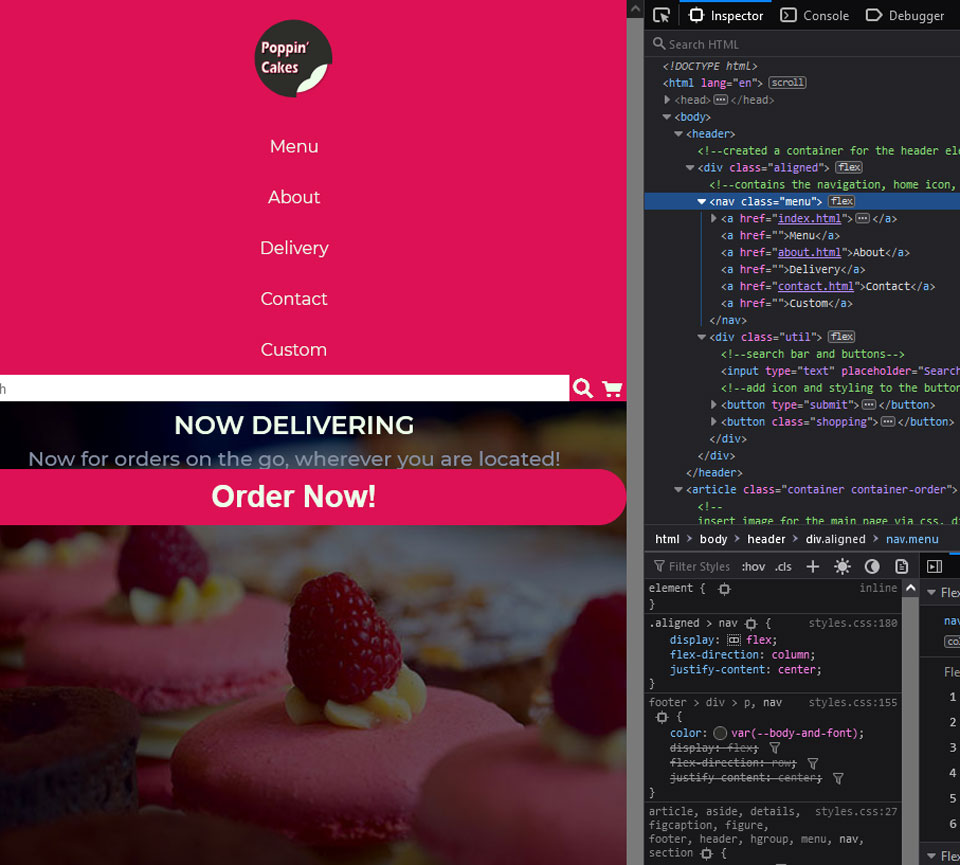
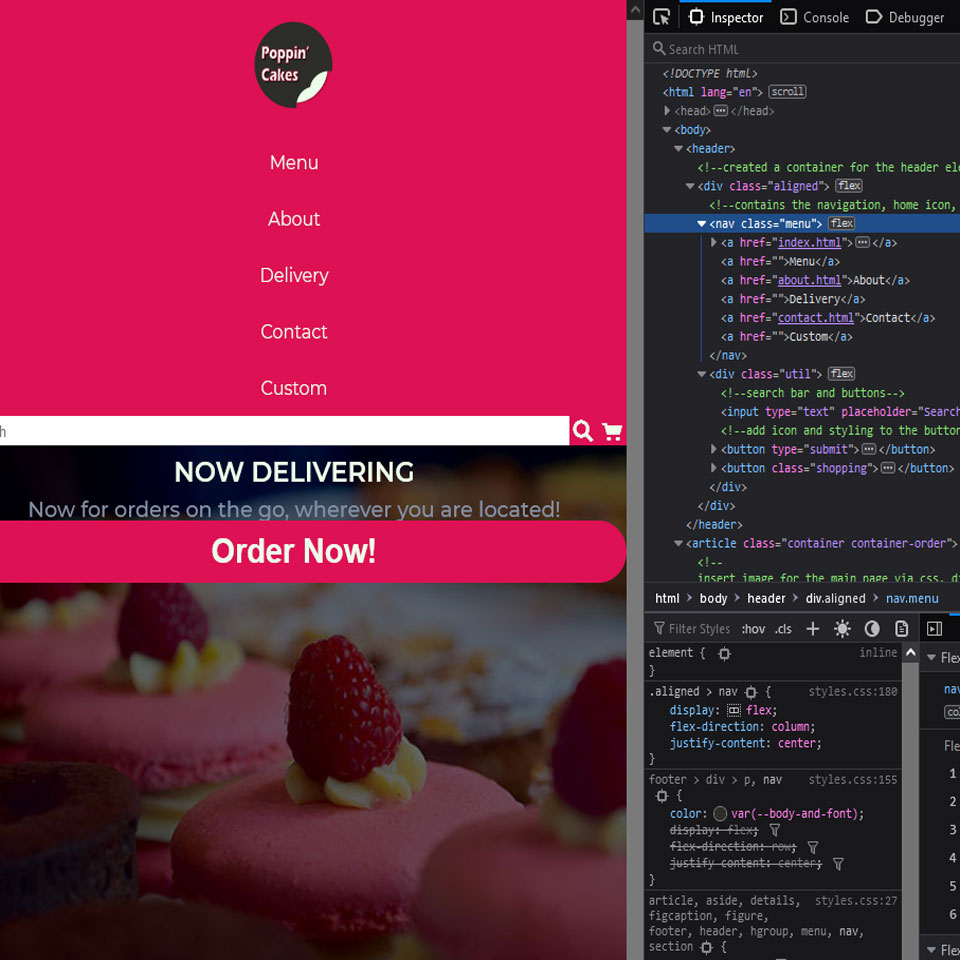
media quiery tweaks for tablet on the index

diff --git a/styles/styles.css b/styles/styles.css
@@ -207,7 +207,7 @@ footer nav a{
 	display: grid;
 	grid-template-columns: 1fr auto;
 	grid-template-areas: "p1 p2"
-						 "p3 p3"
+						 "p3 p4";
 						 
 }
 .first{
@@ -261,6 +261,10 @@ body {
 /* Tablet media quiery */
 
 @media screen and (min-width:720px) and (max-width:960px){
+	/* quote padding */
+	h5{
+		padding-right: var(--spacing10between);
+	}
 	/* adjustments for the homepage ----------------------------*/
 .vibrant{
 	display: flex;
@@ -285,7 +289,16 @@ section .fullwidth{
 }
 .centre-3{
 	grid-area: p2;
-	align-self: center;
+	padding-left: var(--spacing10between);
+}
+/* aligining button and call to action */
+.vibrant{
+	justify-content: center;
+}
+.vibrant .centre{
+	display: flex;
+	align-items: center;
+
 }
 }
 

diff --git a/index.html b/index.html
@@ -170,12 +170,12 @@
   </div>
 </article>
 <article class="vibrant">
-      <div class="centre"> 
-      <h5 class="quota"> Want to create something?</h5>
+    <div class="centre"> 
+      <h5 class="quota quota-1"> Want to create something?</h5>
       <div class="button">
       <a href="contact.html">Get in Touch</a>
     </div>
-      </div> 
+   </div> 
 </article>
 </section>    
     <footer>
